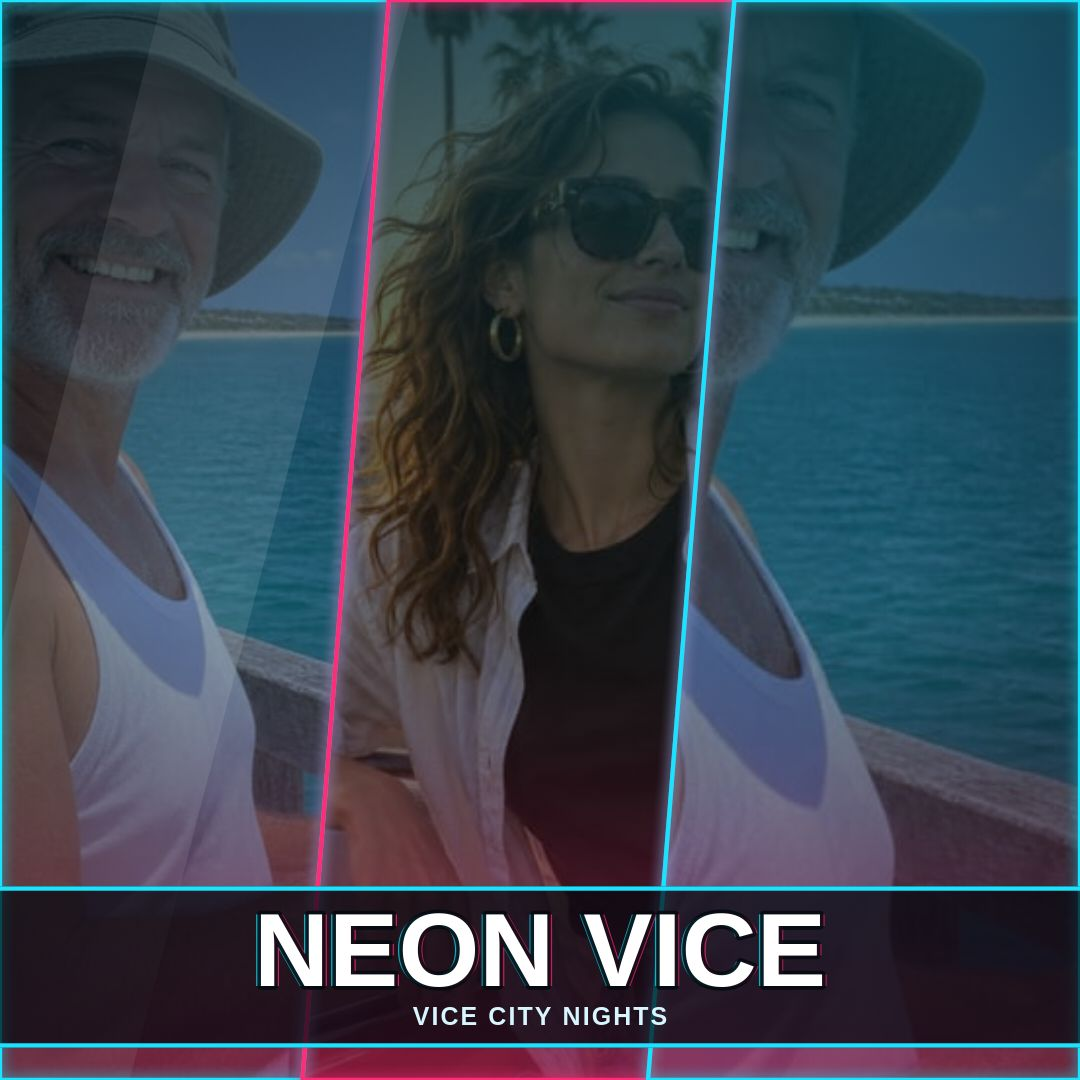
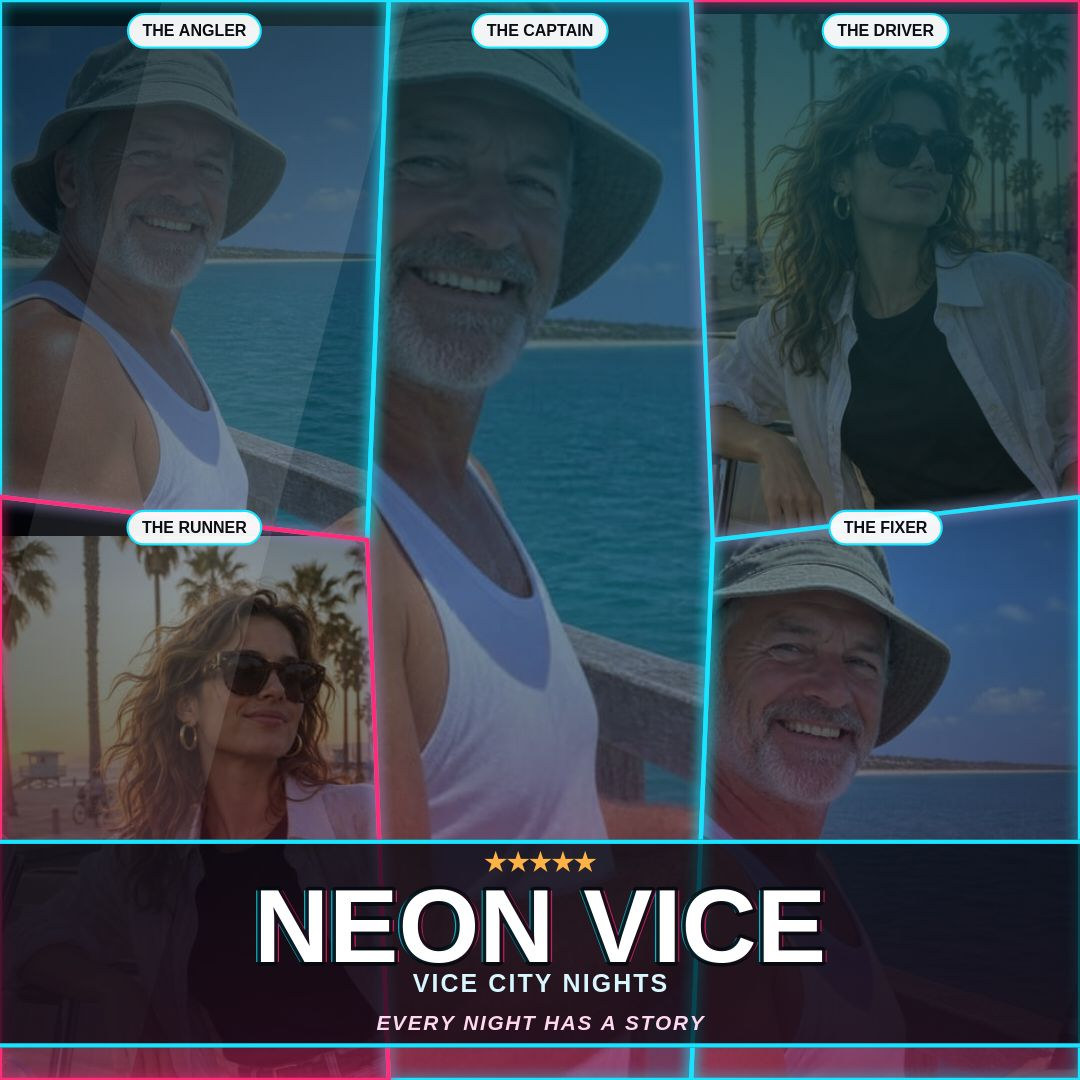
Round 3: 3 new layouts, poster details, Surprise me
- Layouts: Spotlight 5 (large centre column + 4 side panels), Strips,
  Duet — 6 layouts total, each with framing worked out from the
  cover-fit math so upper-third faces read in every panel
- Poster details (toggleable): star rating, tagline line, per-panel
  role-label chips (presets + editable per panel); poster-off rendering
  is unchanged, so hero/quad shots are untouched
- Surprise me button randomises layout, grade, photos, caption,
  tagline, stars and labels
- Feed cover re-shot on Spotlight 5 with poster details; editor shot
  re-shot showing the 6 layout buttons and Surprise me

diff --git a/app/src/main.js b/app/src/main.js
@@ -1,7 +1,7 @@
 // Neon Vice wiring: photos, panel picking, controls, export, and ?shot= scenes.
 // State lives in one plain object; every control mutates it and calls redraw().
 
-import { drawCover, panelAt, LAYOUTS } from './cover.js';
+import { drawCover, panelAt, LAYOUTS, labelFor } from './cover.js';
 
 const canvas = document.getElementById('cover');
 const statusEl = document.getElementById('status');
@@ -17,6 +17,11 @@ const state = {
   titleSize: 104,
   spot: 'bottom',
   size: '1080x1080',
+  poster: true,                     // stars + tagline + role-label chips
+  tagline: 'EVERY NIGHT HAS A STORY',
+  stars: 5,                         // 0 hides the star row
+  labelOffset: 0,                   // rotates the preset role labels
+  labelOverrides: {},               // panel index -> label text ('' hides)
   photos: {},          // id -> HTMLImageElement
   photoNames: {},      // id -> display name
   panels: [],          // one per layout slot: { photoId, zoom, ox, oy }
@@ -58,9 +63,40 @@ function defaultPanels(layout, firstPhoto, secondPhoto) {
     { zoom: 1.0, ox: 0, oy: 0.26 },
   ];
   const table = layout === 'quad' ? quadFraming : framing;
+  // Framing for the new layouts, worked out from the cover-fit math in
+  // drawPanelPhoto (both sample photos carry faces in the upper third:
+  // pier 720x720 face y 8-30%, boulevard 544x720 face y 5-30%).
+  // Spotlight 5: the tall centre column fits either photo at zoom 1.1
+  // (visible photo x 34-66% pier, 29-71% boulevard; full height, so the
+  // face's y range is always in frame). The side panels are short and
+  // wide at 1920x1080, so they get an upward pan (oy ~0.12-0.14) that
+  // keeps the face's top edge in frame on wide canvases without pushing
+  // it out on square ones (there the pan only shows more of the top).
+  const spotlightFraming = [
+    { zoom: 1.30, ox: 0.05, oy: 0.12 },
+    { zoom: 1.35, ox: -0.05, oy: 0.12 },
+    { zoom: 1.10, ox: 0, oy: 0 },
+    { zoom: 1.30, ox: 0.05, oy: 0.14 },
+    { zoom: 1.40, ox: -0.05, oy: 0.12 },
+  ];
+  // Strips: full-height narrow panels show the photo's full y range, so
+  // the upper-third faces are always in frame; only the x window moves.
+  const stripsFraming = [
+    { zoom: 1.15, ox: 0.05, oy: 0 },
+    { zoom: 1.15, ox: -0.05, oy: 0 },
+    { zoom: 1.15, ox: 0.05, oy: 0 },
+    { zoom: 1.15, ox: -0.05, oy: 0 },
+  ];
+  // Duet: two big panels; the default framing keeps the centred faces.
+  const duetFraming = [
+    { zoom: 1.15, ox: 0, oy: 0 },
+    { zoom: 1.15, ox: 0, oy: 0 },
+  ];
+  const tables = { quad: quadFraming, spotlight5: spotlightFraming, strips: stripsFraming, duet: duetFraming };
+  const tableForLayout = tables[layout] || table;
   for (let i = 0; i < count; i++) {
     const photoId = i % 2 === 0 ? firstPhoto : secondPhoto;
-    let f = table[i % table.length];
+    let f = tableForLayout[i % tableForLayout.length];
     // Quad's top-right slot is wide and short, and both sample photos
     // carry their faces in the upper third: the slot's default zoom/pan
     // crops past the face (boulevard shows hair and shirt, pier loses
@@ -143,6 +179,23 @@ function syncPanelTools() {
   if (!panel) return;
   $('panelPhoto').value = panel.photoId;
   $('panelZoom').value = String(panel.zoom);
+  $('panelLabel').value = labelFor(state, state.selected);
+}
+
+// Sync every control from state (after Surprise me, or a ?shot= scene).
+function syncAllControls() {
+  document.querySelectorAll('#layoutSeg button').forEach((b) => b.classList.toggle('on', b.dataset.layout === state.layout));
+  document.querySelectorAll('#gradeSeg button').forEach((b) => b.classList.toggle('on', b.dataset.grade === state.grade));
+  document.querySelectorAll('#sizeSeg button').forEach((b) => b.classList.toggle('on', b.dataset.size === state.size));
+  $('grain').checked = state.glow;
+  $('title').value = state.title;
+  $('subtitle').value = state.subtitle;
+  $('tagline').value = state.tagline;
+  $('stars').value = String(state.stars);
+  $('poster').checked = state.poster;
+  $('titleSpot').value = state.spot;
+  $('titleSize').value = String(state.titleSize);
+  syncPanelTools();
 }
 
 function markPickedSample(id) {
@@ -182,6 +235,17 @@ function wireControls() {
   $('subtitle').addEventListener('input', (e) => { state.subtitle = e.target.value; redraw(); });
   $('titleSpot').addEventListener('change', (e) => { state.spot = e.target.value; redraw(); });
   $('titleSize').addEventListener('input', (e) => { state.titleSize = Number(e.target.value); redraw(); });
+
+  // Poster details: master toggle, tagline, star rating, per-panel label.
+  $('poster').addEventListener('change', (e) => { state.poster = e.target.checked; redraw(); });
+  $('tagline').addEventListener('input', (e) => { state.tagline = e.target.value; redraw(); });
+  $('stars').addEventListener('change', (e) => { state.stars = Number(e.target.value); redraw(); });
+  $('panelLabel').addEventListener('input', (e) => {
+    state.labelOverrides[state.selected] = e.target.value;
+    redraw();
+  });
+
+  $('surprise').addEventListener('click', surpriseMe);
 
   $('panelPhoto').addEventListener('change', (e) => {
     const panel = state.panels[state.selected];
@@ -268,6 +332,31 @@ async function handleFiles(files) {
   statusEl.textContent = `${images.length} photo${images.length === 1 ? '' : 's'} added to the selected panel.`;
 }
 
+// --- Surprise me: one click randomises the whole cover --------------------
+const SURPRISE_TITLES = ['NEON VICE', 'MIDNIGHT RUN', 'BOULEVARD QUEEN', 'NIGHT SHIFT', 'PIER PRESSURE', 'VELVET THUNDER', 'SUNSET STRIP', 'VICE CITY HEAT'];
+const SURPRISE_SUBS = ['VICE CITY NIGHTS', 'AFTER DARK', 'CITY OF NEON', 'RIDERS OF THE NIGHT', 'PALMS AND NEON'];
+const SURPRISE_TAGLINES = ['EVERY NIGHT HAS A STORY', 'SOME NIGHTS NEVER END', 'THE CITY NEVER SLEEPS', 'DRIVE FAST. SHINE BRIGHT.'];
+
+function surpriseMe() {
+  const pick = (arr) => arr[Math.floor(Math.random() * arr.length)];
+  setLayout(pick(Object.keys(LAYOUTS)));
+  state.grade = pick(['neon', 'sunset', 'vice']);
+  state.title = pick(SURPRISE_TITLES);
+  state.subtitle = pick(SURPRISE_SUBS);
+  state.tagline = pick(SURPRISE_TAGLINES);
+  state.stars = 4 + Math.floor(Math.random() * 2); // 4 or 5
+  state.poster = true;
+  state.labelOffset = Math.floor(Math.random() * 5);
+  state.labelOverrides = {};
+  const ids = Object.keys(state.photos);
+  if (ids.length) state.panels.forEach((p) => { p.photoId = pick(ids); });
+  state.spot = Math.random() < 0.8 ? 'bottom' : 'top';
+  state.titleSize = 92 + Math.floor(Math.random() * 5) * 8; // 92..124
+  syncAllControls();
+  redraw();
+  statusEl.textContent = `Surprise: ${state.layout} + ${state.grade} + "${state.title}".`;
+}
+
 // --- panel dragging on the canvas -------------------------------------------
 function wireCanvasDrag() {
   let dragging = null;
@@ -348,6 +437,22 @@ async function runShot(query) {
   const grade = query.get('grade') || 'neon';
   const layout = query.get('layout') || 'slash3';
   const size = query.get('size') || '1080x1080';
+  // Poster details: explicit poster=1/0 wins; otherwise they are on when
+  // the shot names any poster element (tagline/stars/labels), and on by
+  // default for editor shots — cover shots without them stay classic,
+  // so shots 3 and 4 render exactly as before.
+  const posterParam = query.get('poster');
+  const hasPosterParams = query.get('tagline') !== null || query.get('stars') !== null || query.get('labels') !== null;
+  state.poster = posterParam === '1' ? true
+    : posterParam === '0' ? false
+    : hasPosterParams ? true
+    : shot === 'editor';
+  state.tagline = query.get('tagline') || (state.poster ? 'EVERY NIGHT HAS A STORY' : '');
+  state.stars = query.get('stars') !== null ? Number(query.get('stars')) : (state.poster ? 5 : 0);
+  const labelsParam = query.get('labels');
+  if (labelsParam) {
+    labelsParam.split(',').forEach((s, i) => { state.labelOverrides[i] = s.trim().toUpperCase(); });
+  }
   state.title = caption;
   state.subtitle = sub;
   state.grade = grade;
@@ -375,6 +480,10 @@ async function runShot(query) {
   document.querySelectorAll('#sizeSeg button').forEach((b) => b.classList.toggle('on', b.dataset.size === size));
   $('title').value = caption;
   $('subtitle').value = sub;
+  $('tagline').value = state.tagline;
+  $('stars').value = String(state.stars);
+  $('poster').checked = state.poster;
+  syncPanelTools();
   redraw();
   await new Promise((r) => requestAnimationFrame(() => requestAnimationFrame(r)));
   window.__shotReady = true;

diff --git a/app/src/cover.js b/app/src/cover.js
@@ -5,7 +5,7 @@
 export const DISPLAY_FONT = '"Arial Black", "Helvetica Neue", Arial, sans-serif';
 export const BODY_FONT = '"Helvetica Neue", Arial, sans-serif';
 
-// Three diagonal panel layouts. Each panel is a polygon of [x, y] points.
+// Six diagonal panel layouts. Each panel is a polygon of [x, y] points.
 export const LAYOUTS = {
   slash3: [
     [[0, 0], [0.36, 0], [0.28, 1], [0, 1]],
@@ -22,6 +22,28 @@ export const LAYOUTS = {
     [[0.52, 0], [1, 0], [1, 0.55], [0.47, 0.52]],
     [[0, 0.47], [0.47, 0.52], [0.44, 1], [0, 1]],
     [[0.47, 0.52], [1, 0.55], [1, 1], [0.44, 1]],
+  ],
+  // Spotlight 5: one large centre column + four side panels. The centre
+  // panel is a tall hexagon whose edges are shared with the side panels,
+  // so the five polygons tile the canvas with no gaps.
+  spotlight5: [
+    [[0, 0], [0.36, 0], [0.34, 0.5], [0, 0.46]],
+    [[0.64, 0], [1, 0], [1, 0.46], [0.66, 0.5]],
+    [[0.36, 0], [0.64, 0], [0.66, 0.5], [0.64, 1], [0.36, 1], [0.34, 0.5]],
+    [[0, 0.46], [0.34, 0.5], [0.36, 1], [0, 1]],
+    [[0.66, 0.5], [1, 0.46], [1, 1], [0.64, 1]],
+  ],
+  // Strips: four tall vertical strips, slight slant like slash3.
+  strips: [
+    [[0, 0], [0.28, 0], [0.24, 1], [0, 1]],
+    [[0.28, 0], [0.53, 0], [0.49, 1], [0.24, 1]],
+    [[0.53, 0], [0.77, 0], [0.73, 1], [0.49, 1]],
+    [[0.77, 0], [1, 0], [1, 1], [0.73, 1]],
+  ],
+  // Duet: two big panels, one diagonal seam.
+  duet: [
+    [[0, 0], [0.56, 0], [0.44, 1], [0, 1]],
+    [[0.56, 0], [1, 0], [1, 1], [0.44, 1]],
   ],
 };
 
@@ -177,6 +199,9 @@ function drawSeams(ctx, polys, w, h, grade) {
 function drawCaption(ctx, w, h, caption) {
   const title = (caption.title || '').toUpperCase();
   const subtitle = (caption.subtitle || '').toUpperCase();
+  const tagline = (caption.tagline || '').toUpperCase();
+  const stars = Math.max(0, Math.min(5, caption.stars || 0));
+  const poster = !!caption.poster;
   if (!title && !subtitle) return;
   const size = caption.titleSize || 104;
   const spot = caption.spot || 'bottom';
@@ -185,8 +210,11 @@ function drawCaption(ctx, w, h, caption) {
   ctx.save();
   ctx.textAlign = 'center';
   ctx.textBaseline = 'middle';
-  // Backing band so the lettering reads at thumbnail size.
-  const bandH = base * 1.55;
+  // Backing band so the lettering reads at thumbnail size. With poster
+  // details on, the band grows to hold a star row and a tagline; with
+  // them off, the geometry is exactly the classic one (bandH 1.55x,
+  // title at 0.44, subtitle at 0.82), so old shots render unchanged.
+  const bandH = poster ? base * 2.0 : base * 1.55;
   const bandY = spot === 'top' ? h * 0.02 : h - bandH - h * 0.03;
   ctx.fillStyle = 'rgba(3, 8, 14, 0.72)';
   ctx.fillRect(0, bandY, w, bandH);
@@ -194,6 +222,13 @@ function drawCaption(ctx, w, h, caption) {
   ctx.fillStyle = grade.seam;
   ctx.fillRect(0, bandY, w, edge);
   ctx.fillRect(0, bandY + bandH - edge, w, edge);
+
+  if (poster && stars > 0) {
+    const starPx = Math.max(16, base * 0.24);
+    ctx.font = `700 ${starPx}px ${BODY_FONT}`;
+    ctx.fillStyle = '#ffb347';
+    ctx.fillText(`${'★'.repeat(stars)}${'☆'.repeat(5 - stars)}`, w / 2, bandY + bandH * 0.12);
+  }
 
   if (title) {
     // Fit the title to the width: shrink until it fits with room to spare.
@@ -204,7 +239,7 @@ function drawCaption(ctx, w, h, caption) {
       fontPx -= 4;
       ctx.font = `900 ${fontPx}px ${DISPLAY_FONT}`;
     }
-    const ty = bandY + bandH * 0.44;
+    const ty = bandY + bandH * (poster ? 0.45 : 0.44);
     ctx.lineWidth = Math.max(4, fontPx * 0.07);
     ctx.strokeStyle = 'rgba(4, 10, 16, 0.9)';
     ctx.lineJoin = 'round';
@@ -222,9 +257,66 @@ function drawCaption(ctx, w, h, caption) {
     ctx.font = `700 ${subPx}px ${BODY_FONT}`;
     ctx.fillStyle = '#d7f6ff';
     const spaced = subtitle.split('').join(' ');
-    const sy = bandY + bandH * 0.82;
+    const sy = bandY + bandH * (poster ? 0.70 : 0.82);
     ctx.fillText(spaced, w / 2, sy);
   }
+  if (poster && tagline) {
+    const tagPx = Math.max(16, base * 0.20);
+    ctx.font = `italic 700 ${tagPx}px ${BODY_FONT}`;
+    ctx.fillStyle = '#ffd7ef';
+    const spaced = tagline.split('').join(' ');
+    ctx.fillText(spaced, w / 2, bandY + bandH * 0.89);
+  }
+  ctx.restore();
+}
+
+// Poster role labels: one small pill per panel ("THE ANGLER" style).
+// Presets rotate per panel; the editor can override (or clear) any panel's
+// label, and Surprise me rotates the preset offset.
+export const PRESET_LABELS = ['THE ANGLER', 'THE DRIVER', 'THE CAPTAIN', 'THE RUNNER', 'THE FIXER'];
+
+export function labelFor(state, i) {
+  const o = state.labelOverrides && state.labelOverrides[i];
+  if (o !== undefined) return o; // empty string hides that panel's chip
+  return PRESET_LABELS[(i + (state.labelOffset || 0)) % PRESET_LABELS.length];
+}
+
+function drawLabels(ctx, w, h, state) {
+  const polys = LAYOUTS[state.layout] || LAYOUTS.slash3;
+  const grade = GRADES[state.grade] || GRADES.neon;
+  const px = Math.max(13, Math.round(w * 0.015));
+  ctx.save();
+  ctx.font = `800 ${px}px ${BODY_FONT}`;
+  ctx.textAlign = 'center';
+  ctx.textBaseline = 'middle';
+  polys.forEach((poly, i) => {
+    const label = (labelFor(state, i) || '').toUpperCase();
+    if (!label) return;
+    let minX = 1, maxX = 0, minY = 1, maxY = 0;
+    for (const [x, y] of poly) {
+      minX = Math.min(minX, x); maxX = Math.max(maxX, x);
+      minY = Math.min(minY, y); maxY = Math.max(maxY, y);
+    }
+    const tw = ctx.measureText(label).width;
+    const padX = px * 0.9;
+    const padY = px * 0.55;
+    const chipW = tw + padX * 2;
+    const chipH = px + padY * 2;
+    const cxp = (minX + maxX) / 2 * w;
+    // Chips sit at the panel's top edge — or its bottom edge when the
+    // caption band is on top — so they never hide under the band.
+    const top = state.spot === 'top' ? maxY * h - chipH - 14 : minY * h + 14;
+    const x = Math.max(chipW / 2 + 8, Math.min(w - chipW / 2 - 8, cxp));
+    ctx.beginPath();
+    ctx.roundRect(x - chipW / 2, top, chipW, chipH, chipH / 2);
+    ctx.fillStyle = 'rgba(255, 255, 255, 0.94)';
+    ctx.fill();
+    ctx.lineWidth = Math.max(2, w * 0.002);
+    ctx.strokeStyle = grade.seam;
+    ctx.stroke();
+    ctx.fillStyle = '#0b0f14';
+    ctx.fillText(label, x, top + chipH / 2 + 1);
+  });
   ctx.restore();
 }
 
@@ -244,11 +336,15 @@ export function drawCover(canvas, state) {
   });
   applyGrade(ctx, w, h, state.grade, state.glow);
   drawSeams(ctx, polys, w, h, state.grade);
+  if (state.poster) drawLabels(ctx, w, h, state);
   drawCaption(ctx, w, h, {
     title: state.title,
     subtitle: state.subtitle,
     titleSize: state.titleSize,
     spot: state.spot,
     grade: state.grade,
+    tagline: state.tagline,
+    stars: state.stars,
+    poster: state.poster,
   });
 }

diff --git a/app/index.html b/app/index.html
@@ -18,6 +18,7 @@
       </span>
     </div>
     <div class="top-actions">
+      <button id="surprise" type="button" class="btn">Surprise me</button>
       <button id="exportTop" type="button" class="btn primary">Export PNG</button>
     </div>
   </header>
@@ -50,6 +51,9 @@
           <button type="button" data-layout="slash3" class="on">Slash 3</button>
           <button type="button" data-layout="hero">Hero</button>
           <button type="button" data-layout="quad">Quad</button>
+          <button type="button" data-layout="spotlight5">Spotlight 5</button>
+          <button type="button" data-layout="strips">Strips</button>
+          <button type="button" data-layout="duet">Duet</button>
         </div>
         <p class="hint">Click a panel in the preview to select it, then drag it to reposition the photo.</p>
         <div class="panel-tools">
@@ -58,6 +62,9 @@
           </label>
           <label>Zoom
             <input id="panelZoom" type="range" min="1" max="3" step="0.05" value="1.15">
+          </label>
+          <label>Panel label
+            <input id="panelLabel" type="text" maxlength="16" value="THE ANGLER" placeholder="THE ANGLER">
           </label>
           <div class="row">
             <button id="panelCenter" type="button" class="btn small">Centre photo</button>
@@ -84,7 +91,21 @@
         <label>Subtitle
           <input id="subtitle" type="text" maxlength="48" value="VICE CITY NIGHTS">
         </label>
+        <label class="check"><input id="poster" type="checkbox" checked> Poster details (stars, tagline, panel labels)</label>
+        <label>Tagline
+          <input id="tagline" type="text" maxlength="60" value="EVERY NIGHT HAS A STORY">
+        </label>
         <div class="row">
+          <label>Stars
+            <select id="stars">
+              <option value="5" selected>★★★★★</option>
+              <option value="4">★★★★☆</option>
+              <option value="3">★★★☆☆</option>
+              <option value="2">★★☆☆☆</option>
+              <option value="1">★☆☆☆☆</option>
+              <option value="0">None</option>
+            </select>
+          </label>
           <label>Title spot
             <select id="titleSpot">
               <option value="bottom">Bottom</option>
